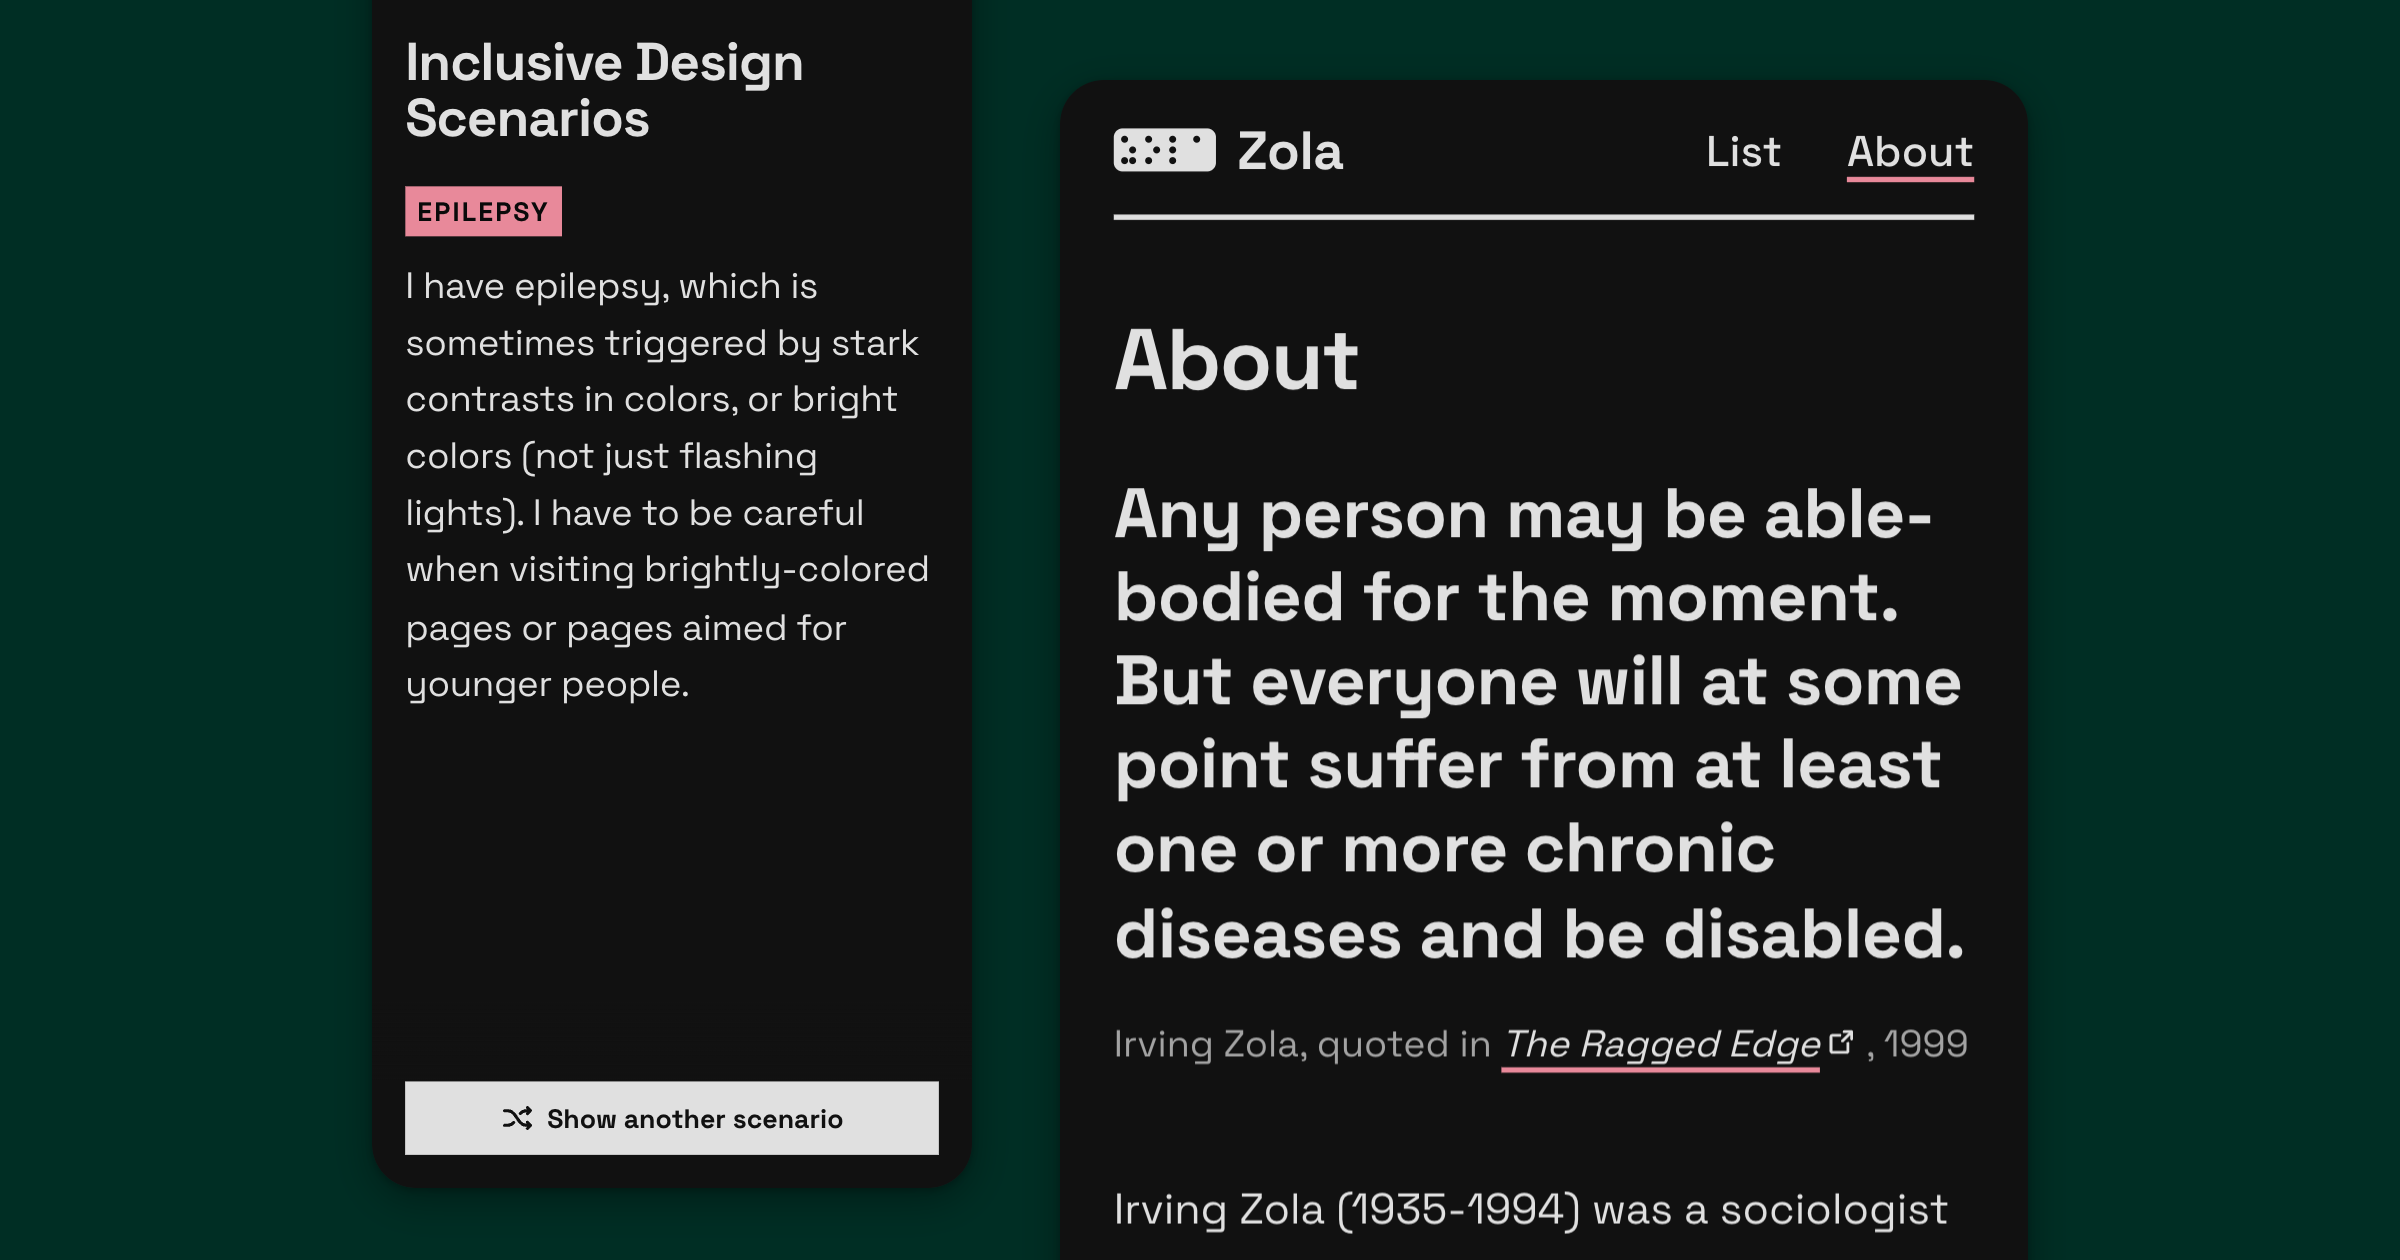
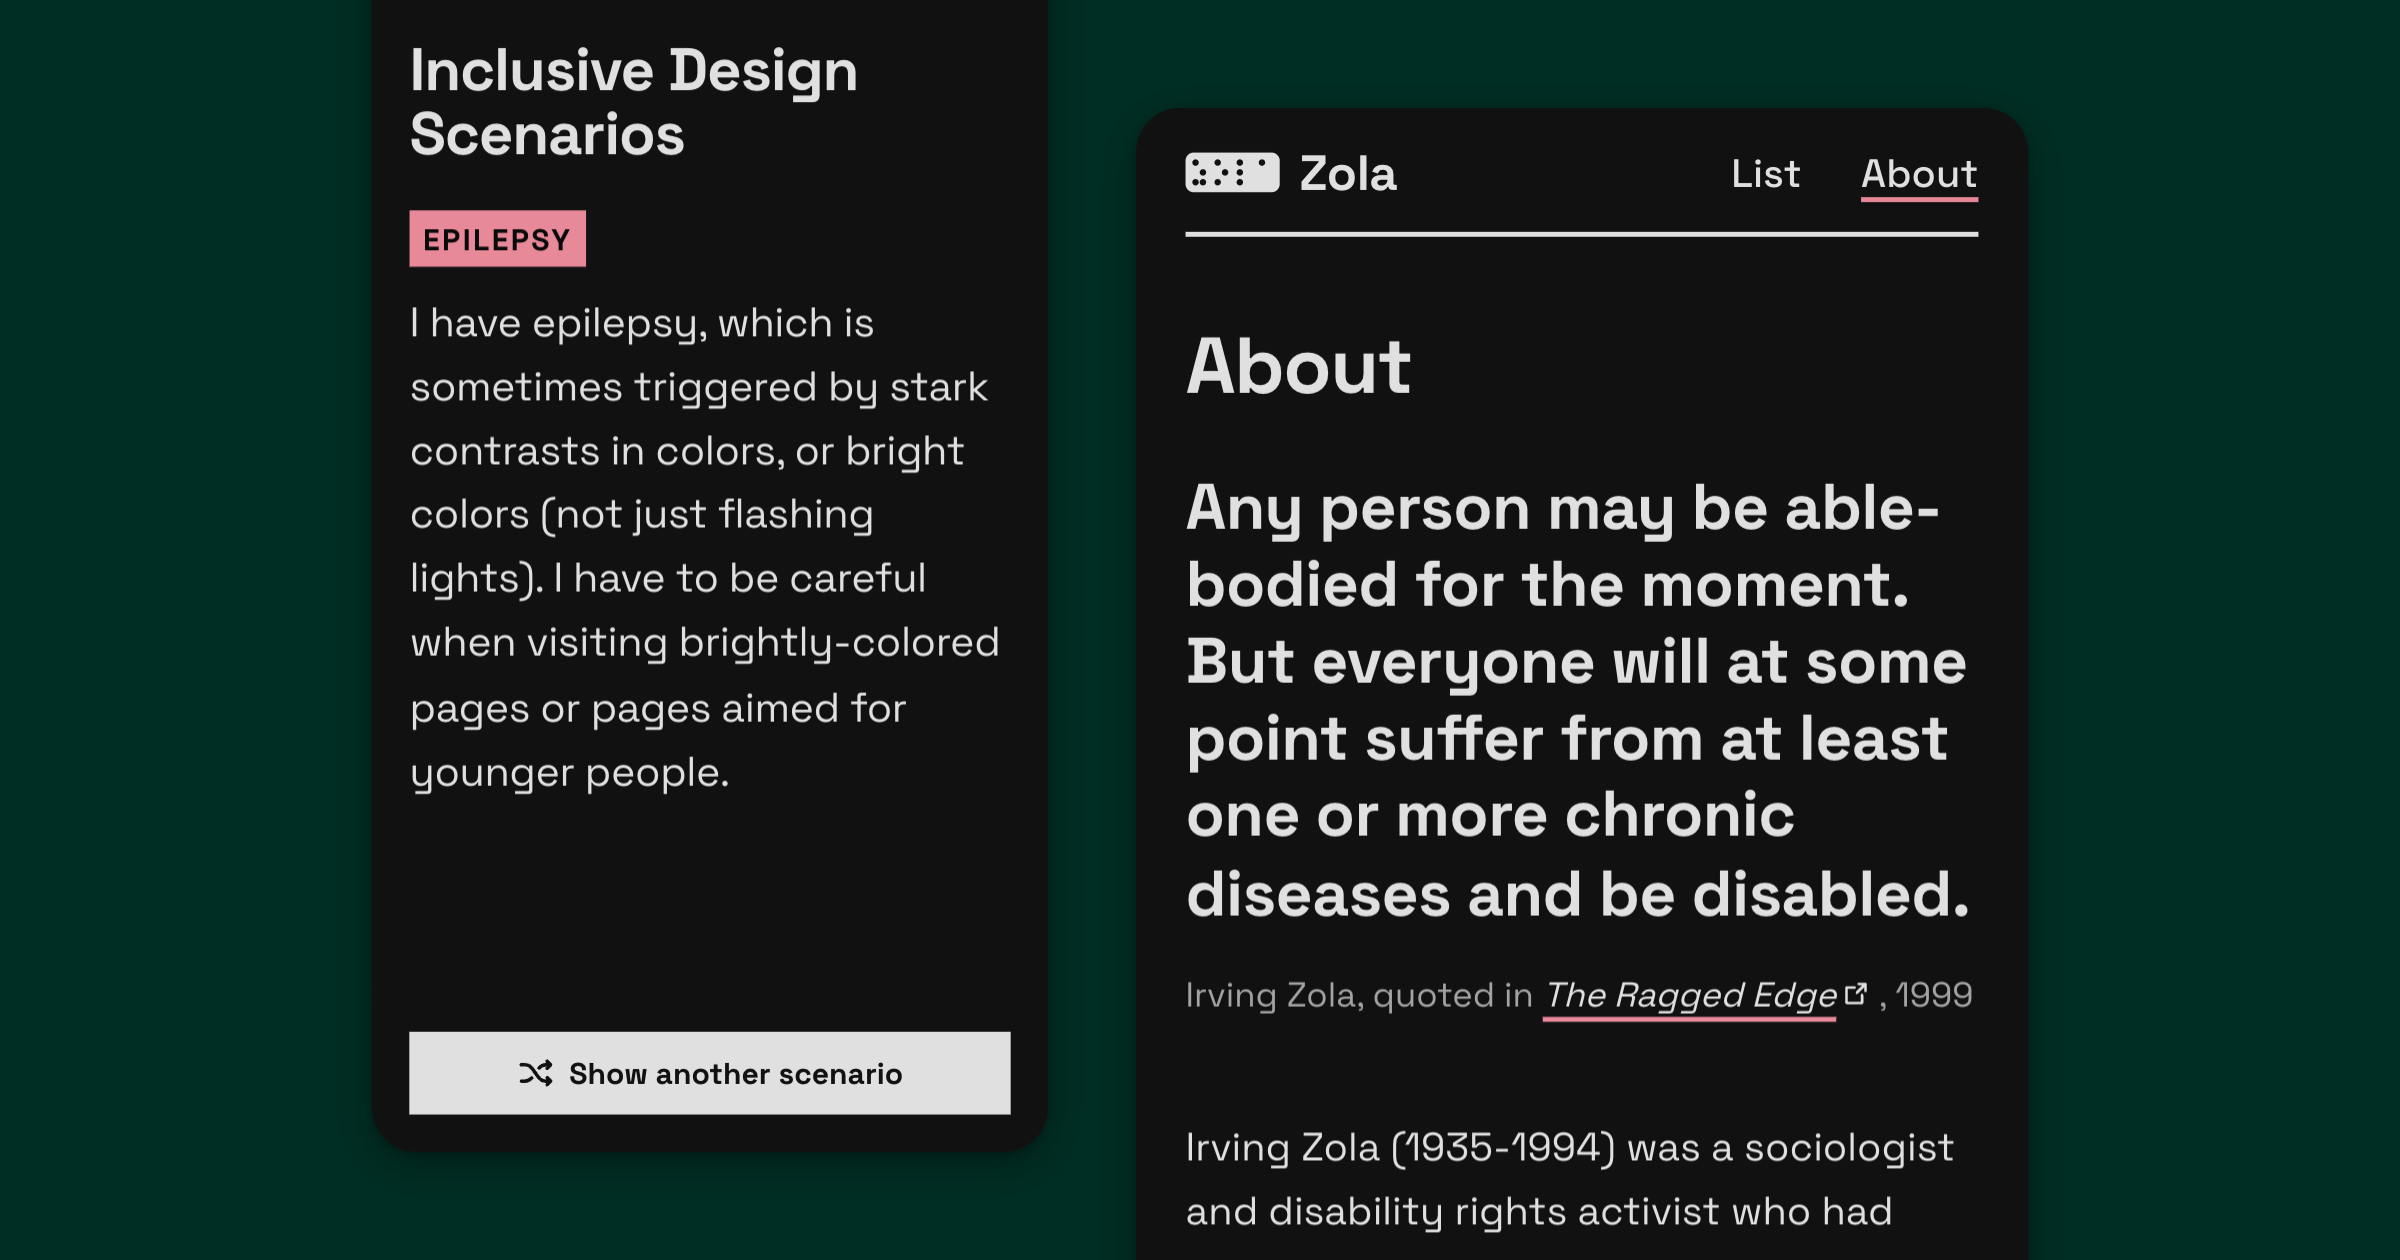
theme!

Changed region(s): [[0.1562, 0.0, 0.8438, 1.0]]

diff --git a/src/data/projects.ts b/src/data/projects.ts
@@ -82,7 +82,7 @@ export const projects: Project[] = [
     {
         name: "Atlas Nights",
         description:
-            "Spend a night star-gazing in the High Atlas. Choose constellation maps from a selection of regional sky cultures.",
+            "Spend a night star-gazing in the High Atlas. Choose constellation maps from regional sky cultures.",
         url: "https://jackbush.github.io/glimmers/atlas-nights/",
         cover: {
             format: "landscape",
@@ -93,7 +93,7 @@ export const projects: Project[] = [
     {
         name: "Chromist",
         description:
-            "Get your colours right. Build palettes for modern devices, see how they appear on old screens, audit accessibility against the next standards.",
+            "Get your colours right. Build palettes for modern devices, see how they appear on old screens, audit accessibility against the next standards (WCAG 3.0).",
         url: "https://jackbush.github.io/chromist/",
         cover: { format: "square", image: chromistCover },
     },
@@ -118,7 +118,7 @@ export const projects: Project[] = [
     {
         name: "Albums",
         description:
-            "Nice, old-fashioned photo albums. Because social media is a dumpster fire, but it's nice to show your mum what you've been up to.",
+            "Nice, old-fashioned photo albums. Because social media is a mess, but it's nice to show your mum what you've been up to.",
         url: "https://jackbush.github.io/albums/",
         cover: { format: "landscape", image: albumsCover },
     },

diff --git a/src/data/roles.ts b/src/data/roles.ts
@@ -32,7 +32,7 @@ export const roles: Role[] = [
             "Led design of OVO’s consumer app and digital experience for 4m UK households, also owning the design system and accessibility.",
         listItems: [
             "Rebuilt the customer app from information architecture up, based on mental model research, growing users from 200k to 500k and doubling engagement",
-            "Brought every customer product onto one design system at WCAG AA, with open clinics and team-wide training",
+            "Brought every customer product onto one design system at WCAG 2.2 AA, with open clinics and team-wide training",
         ],
     },
     {

diff --git a/src/data/theme.ts b/src/data/theme.ts
@@ -11,7 +11,7 @@ export type Mode = "projects" | "roles";
 export const MODES: Mode[] = ["projects", "roles"];
 
 /** The Projects page; the Roles page is its inverse. */
-export const themeColour = "#E6DCD6";
+export const themeColour = "#DCE9C0";
 
 /** Text: the page's inverse at these opacities over it. */
 export const textOpacity = {

diff --git a/CLAUDE.md b/CLAUDE.md
@@ -15,8 +15,8 @@ npm run format    # Prettier (4-space indent; 2 for JSON, YAML, Markdown)
 
 Personal site built with Astro 6 (no JS framework). Single page (`src/pages/index.astro`) with a short intro and a projects/roles toggle:
 
-- **Projects** (default) lists side projects, light theme (warm-tinted).
-- **Roles** shows past roles, dark theme (cool-tinted).
+- **Projects** (default) lists side projects, light theme (pistachio).
+- **Roles** shows past roles, dark theme (deep purple).
 - The toggle is an accessible tablist; switching updates the `?mode=` URL param (`projects`|`roles`) via `history.replaceState`, so either mode is directly shareable. It also swaps the page `<title>` (`Jack Bush | Projects` / `| Roles`) and the favicon (white circle / black circle). An inline script applies the correct theme before first paint on `?mode=roles` loads. First paint is just the heading and intro: the toggle and lists (`.tabs`) stay hidden (`html.tabs-pending`) until the page script has set them up, then fade in, so `?mode=roles` never flashes the project cards.
 - The active tab is filled with the page's text colour, its label in the page colour; the inactive tab is the page with a text-colour label; the frame is the text colour. Nothing uses the other page's colours. Styles key off `data-theme`, so the pre-paint script gets it right.
 - **The switch:** clicking a tab (or the arrow keys, from the tab's centre) spreads the new page colour out from the click on a canvas, with a wobbling outline; the intro stays and changes colour as it passes, the old list fades, and the new list appears inside the spreading shape. The browser's own bars take one flat colour (`theme-color`, and Safari's tint from `html`'s background), so they follow the page along the top edge (`topEdge` in `backdrop.ts`), changing `barsLead` (in `theme.ts`) before a switch covers it; `viewport-fit=cover` lets the canvas itself reach under Safari's bars where it allows. With `prefers-reduced-motion`, or without WebGL2, the switch is instant/plain CSS.

diff --git a/README.md b/README.md
@@ -5,10 +5,10 @@ About me, some projects and roles. There's a [live-editable version of the inter
 ### Fav theme colours
 
 ```
-[ ] #dce9c0 [pistachio | deep purple]
+[•] #dce9c0 [pistachio | deep purple]
 [ ] #f3decc [paper | slate]
 [ ] #f6dcdb [dusty pink | forest green]
-[•] #e6dcd6 [putty | dark teal]
+[ ] #e6dcd6 [putty | dark teal]
 ```
 
 ## How it works
